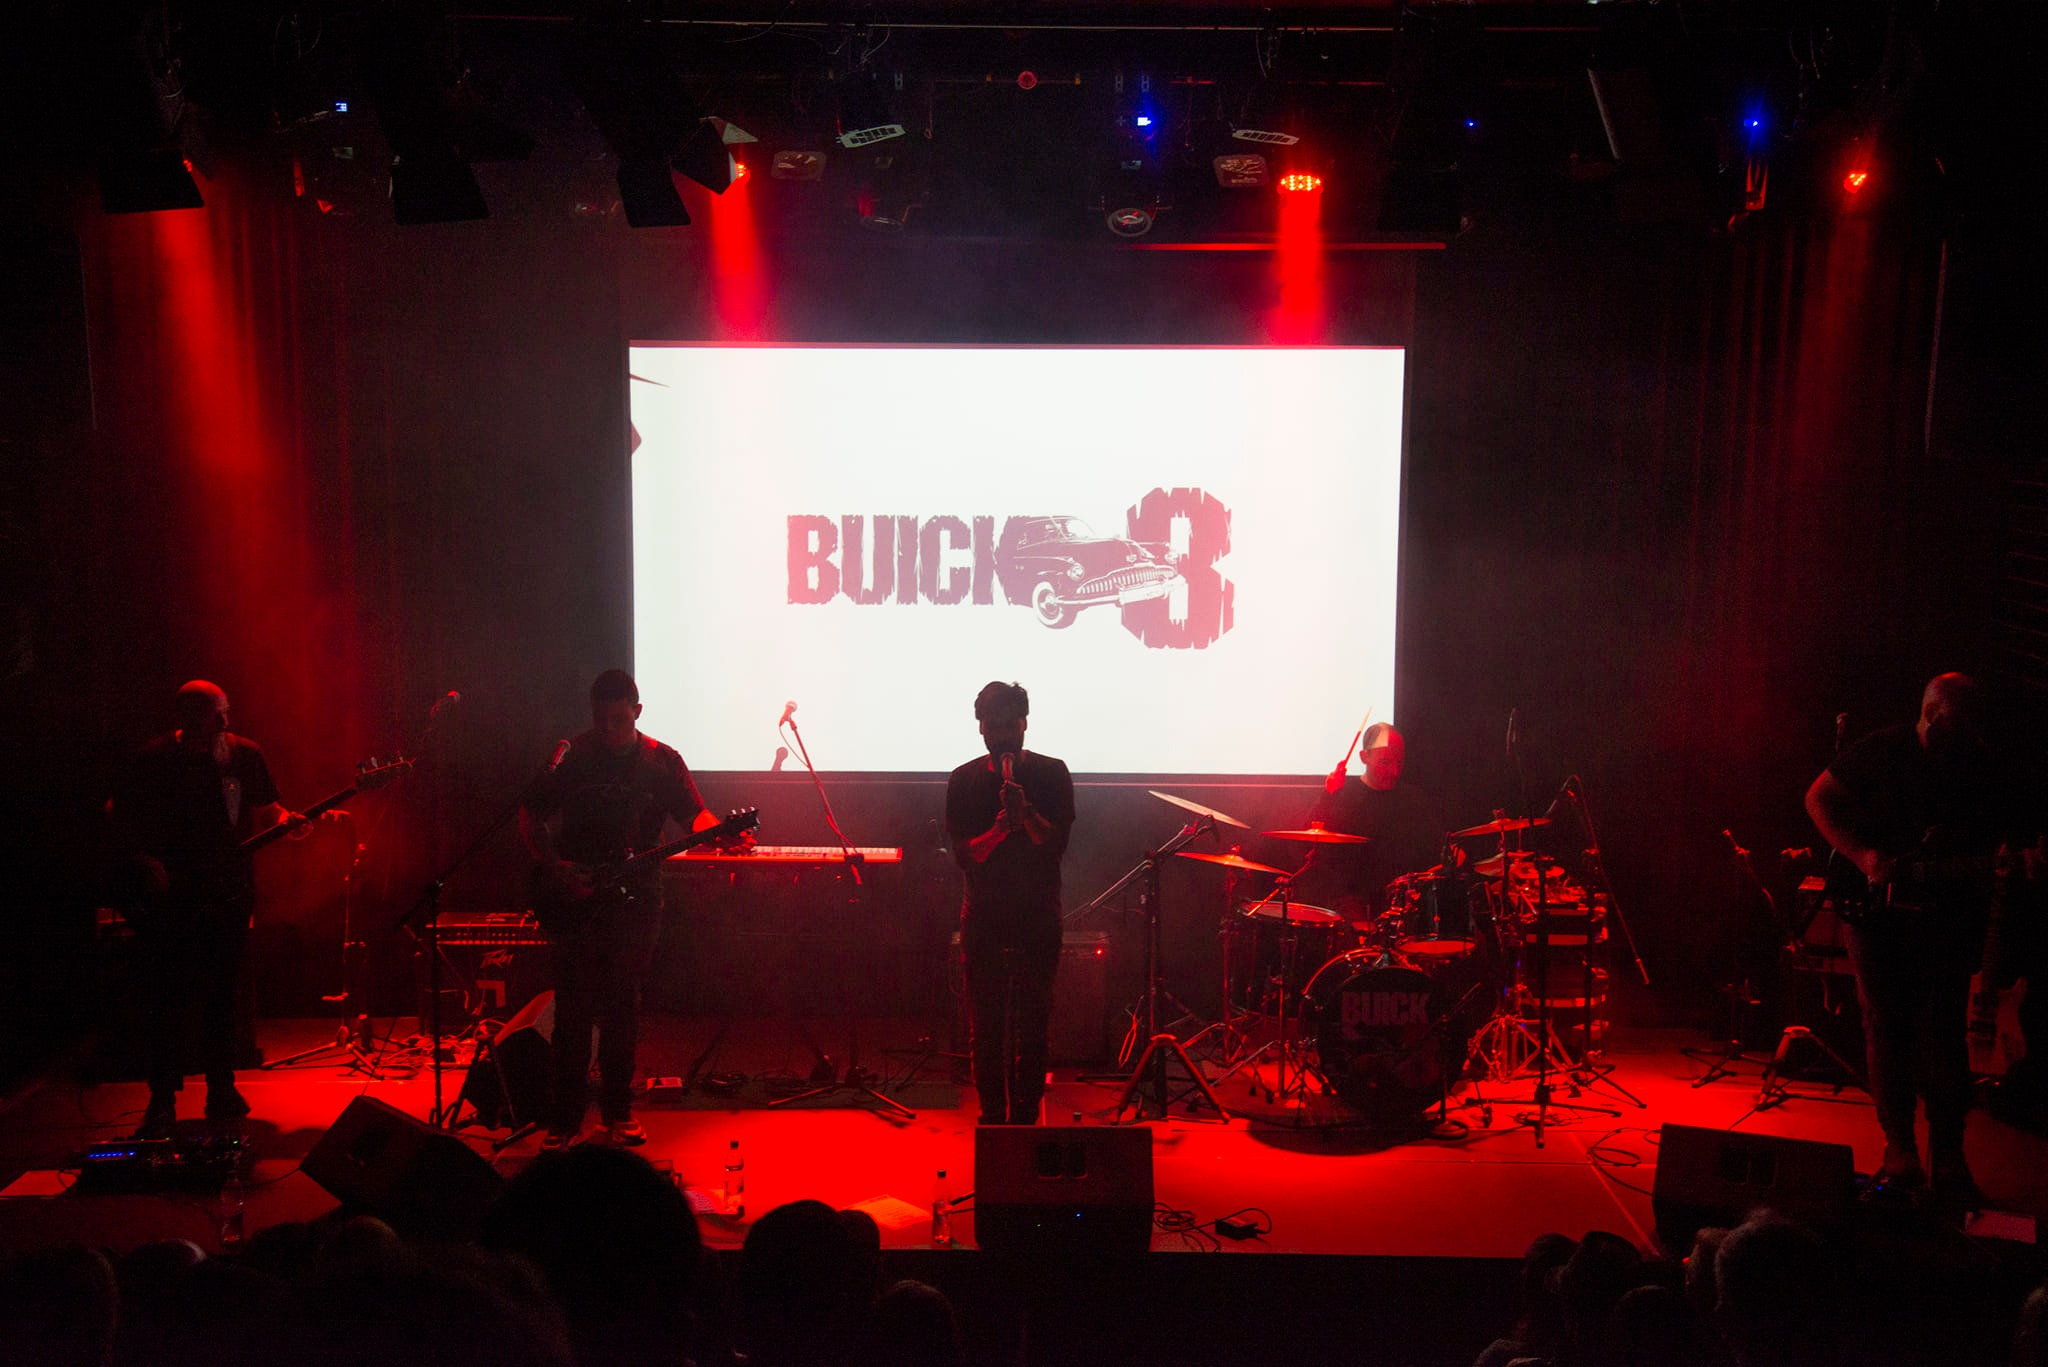
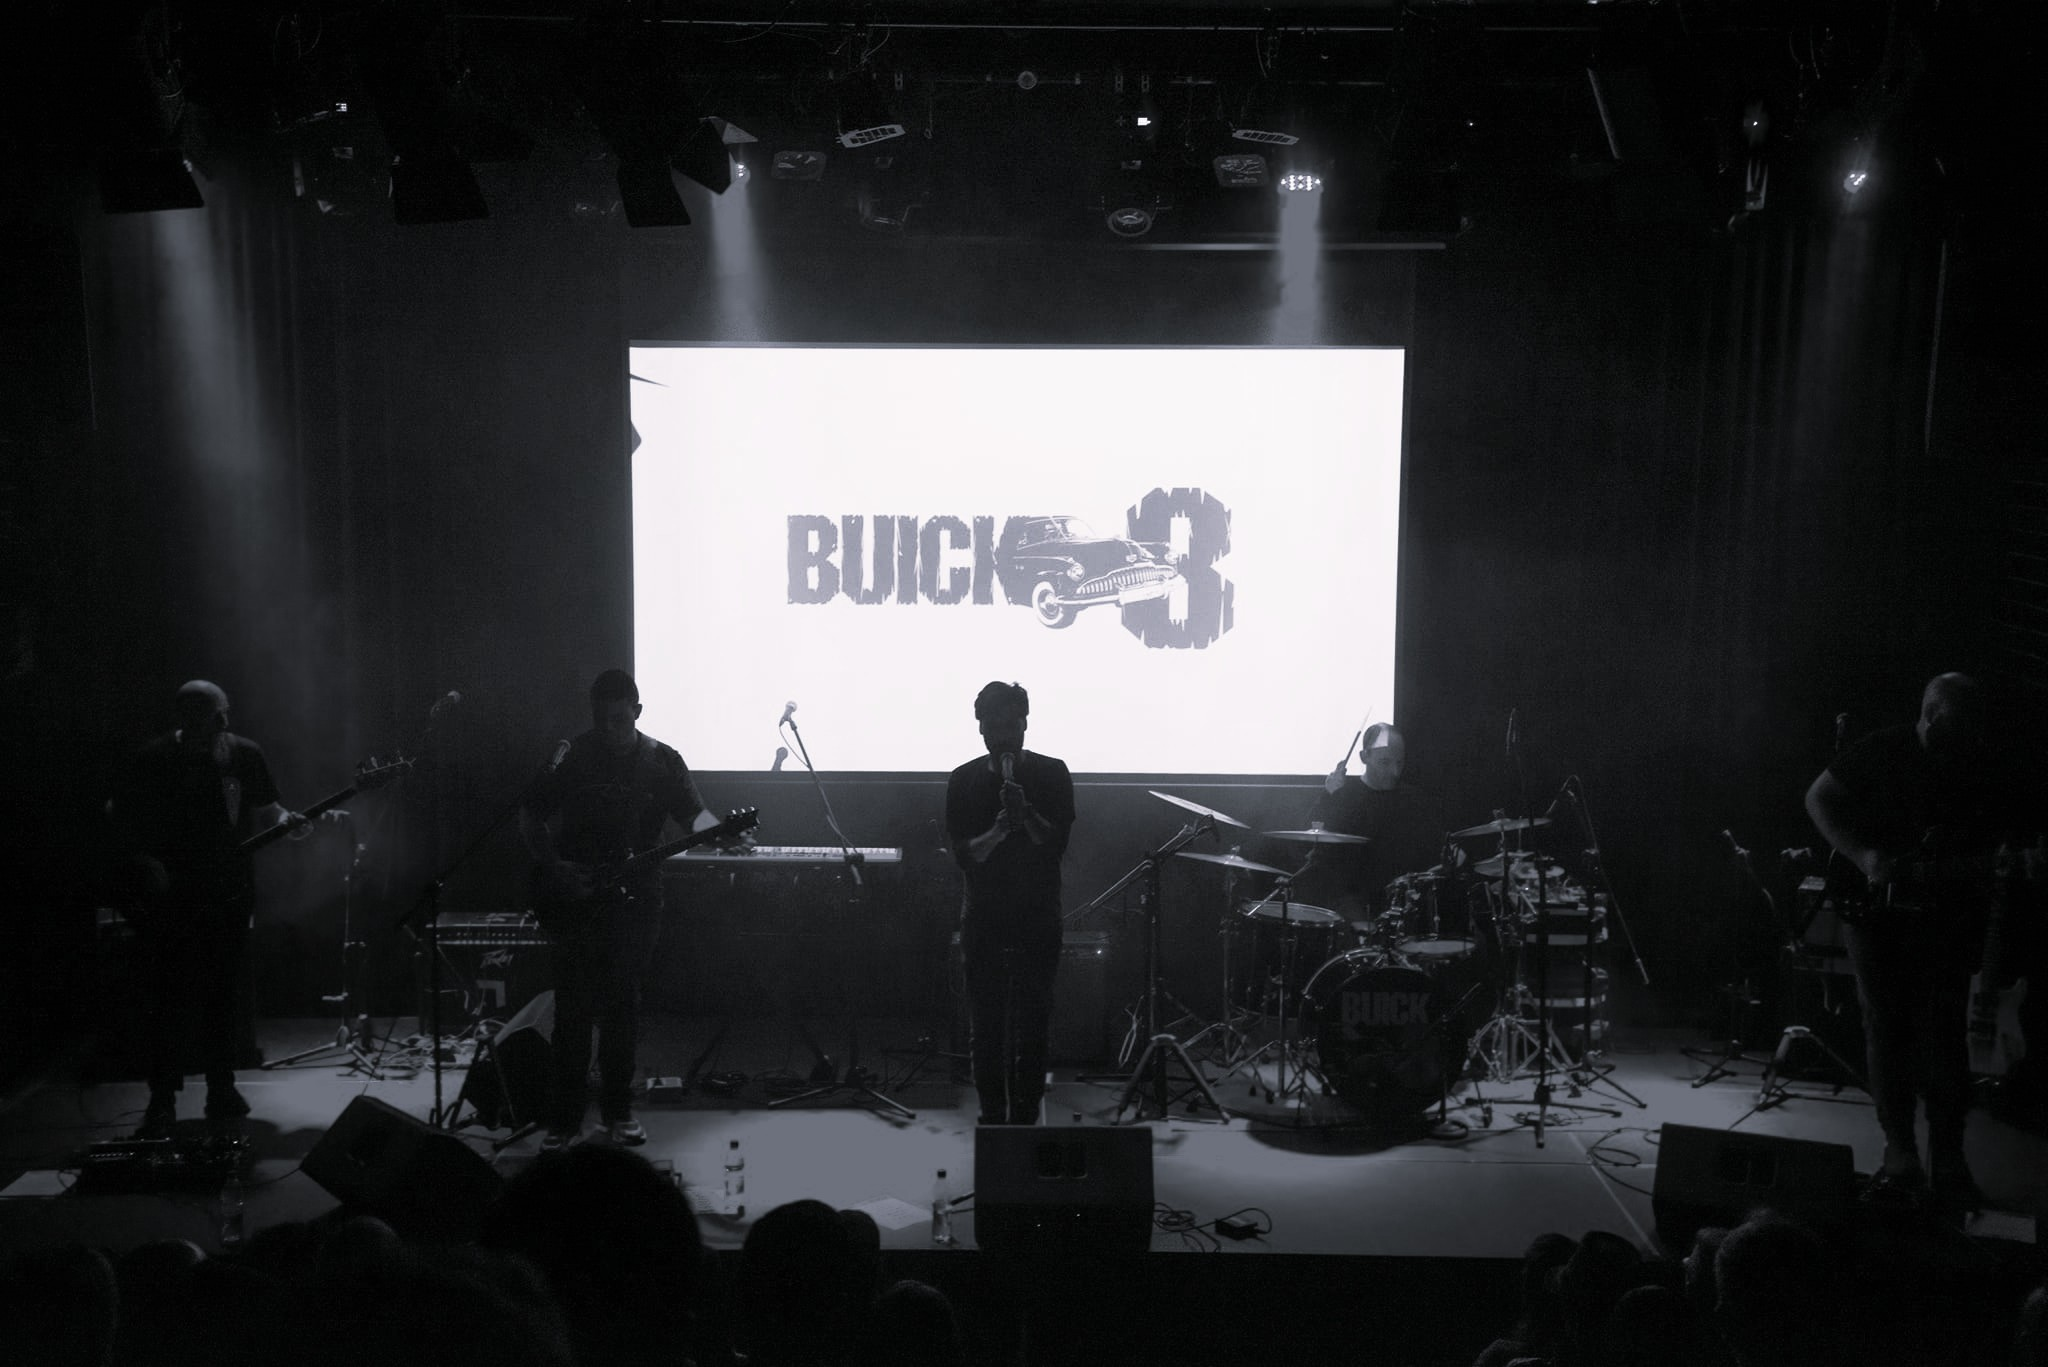
fotos byn

diff --git a/pages/fotosdeshows.html b/pages/fotosdeshows.html
@@ -19,16 +19,16 @@
                 <ul class="navbar-nav">
                     <a class="navbar-brand" href="../index.html"><img src="../img/logo.png" alt="logo buick 8"></a>
                     <li class="nav-item">
-                        <a class="nav-link" href="integrantes.html">Integrantes</a>
+                        <a class="nav-link" href="integrantes.html">INTEGRANTES</a>
                     </li>
                     <li class="nav-item">
-                        <a class="nav-link" href="canciones.html">Música</a>
+                        <a class="nav-link" href="canciones.html">MÚSICA</a>
                     </li>
                     <li class="nav-item">
-                        <a class="nav-link" href="fotosdeshows.html" aria-disabled="true">Fotos</a>
+                        <a class="nav-link" href="fotosdeshows.html" aria-disabled="true">FOTOS</a>
                     </li>
                     <li class="nav-item">
-                        <a class="nav-link" href="contacto.html" aria-disabled="true">Redes sociales</a>
+                        <a class="nav-link" href="contacto.html" aria-disabled="true">REDES SOCIALES</a>
                     </li>
                 </ul>
             </div>
@@ -38,7 +38,7 @@
     <!--Etiqueta para sección principal-->
     <main>
         <section>
-            <h1 class="title-color fotos-title-style">FOTOS</h1>
+            <h1 class="title-color fotos-title-style">NUESTRAS FOTOS</h1>
                 <div class="pics-grid">
                     <img src="../galeria/pic4.jpg" alt="banda completa">
                     <img src="../galeria/pic5.jpg" alt="banda completa en blanco y negro desde gradas">

diff --git a/style.css b/style.css
@@ -99,14 +99,21 @@ div ul img:hover{
 }
 
 .integrantes{
-    width: 70%;
+    width: 60%;
+    border-radius: 15px;
+    transition: transform 0.3s ease, box-shadow 0.3s ease;
+}
+
+.integrantes:hover{
+    transform: scale(1.05);
+    box-shadow: 0 0 10px rgba(177, 21, 21, 0.736);
 }
 
 .title-cada{
     color: rgba(177, 21, 21, 0.736);
     font-weight: bold;
     font-size: 18px;
-    margin-top: 10px;
+    margin-top: 20px;
 }
 
 .grid-integrantes p{
@@ -140,7 +147,7 @@ div ul img:hover{
 
 .bg-discos:hover {
     transform: scale(1.05);
-    box-shadow: 0 0px 20px rgba(177, 21, 21, 0.736);
+    box-shadow: 0 0 10px rgba(177, 21, 21, 0.736);
 }
 
 .style-songs{
@@ -175,10 +182,11 @@ div ul img:hover{
 /* fotos de shows */
 
 .fotos-title-style{
+    font-size: 36px;
     color: rgba(181, 178, 178, 0.849);
     font-weight: bold;
-    margin: 30px;
     text-align: center;
+    margin: 50px 0 50px 0;
 }
 
 h1.fotos-title-style{
@@ -186,8 +194,15 @@ h1.fotos-title-style{
 }
 
 .pics-grid img{
-    width: 100vh;
+    width: 100%;
     height: 70vh;
+    border-radius: 15px;
+    transition: transform 0.3s ease, box-shadow 0.3s ease;
+}
+
+.pics-grid img:hover{
+    transform: scale(1.05);
+    box-shadow: 0 0px 10px rgba(177, 21, 21, 0.736);
 }
 
 .pics-grid{
@@ -195,6 +210,7 @@ h1.fotos-title-style{
     grid-template-columns: repeat(2, 1fr);
     row-gap: 5px;
     justify-items: center;
+    transition: transform 0.3s ease, box-shadow 0.3s ease;
 }
 
 /* contacto */
@@ -220,6 +236,7 @@ h1.fotos-title-style{
 .flex-redes ul img:hover{
     border: 4px solid rgba(177, 21, 21, 0.736);
     border-radius: 100%;
+    transform: scale(1.3);
 }
 
 .redes-bg{

diff --git a/pages/canciones.html b/pages/canciones.html
@@ -19,16 +19,16 @@
                 <ul class="navbar-nav">
                     <a class="navbar-brand" href="../index.html"><img src="../img/logo.png" alt="logo buick 8"></a>
                     <li class="nav-item">
-                        <a class="nav-link" href="integrantes.html">Integrantes</a>
+                        <a class="nav-link" href="integrantes.html">INTEGRANTES</a>
                     </li>
                     <li class="nav-item">
-                        <a class="nav-link" href="canciones.html">Música</a>
+                        <a class="nav-link" href="canciones.html">MÚSICA</a>
                     </li>
                     <li class="nav-item">
-                        <a class="nav-link" href="fotosdeshows.html" aria-disabled="true">Fotos</a>
+                        <a class="nav-link" href="fotosdeshows.html" aria-disabled="true">FOTOS</a>
                     </li>
                     <li class="nav-item">
-                        <a class="nav-link" href="contacto.html" aria-disabled="true">Redes sociales</a>
+                        <a class="nav-link" href="contacto.html" aria-disabled="true">REDES SOCIALES</a>
                     </li>
                 </ul>
             </div>
@@ -37,6 +37,9 @@
     </header>
     <!--Etiqueta para sección principal-->
     <main>
+        <div>
+            <p class="title-integrantes">NUESTRA MÚSICA</p>
+        </div>
         <section class="cd-grid">
             <div class="bg-discos text-center">
                 <h1 class="style-songs">Versiones en vivo</h1>

diff --git a/index.html b/index.html
@@ -19,16 +19,16 @@
                 <ul class="navbar-nav">
                     <a class="navbar-brand" href="index.html"><img src="img/logo.png" alt="logo buick 8"></a>
                     <li class="nav-item">
-                        <a class="nav-link" href="./pages/integrantes.html">Integrantes</a>
+                        <a class="nav-link" href="./pages/integrantes.html">INTEGRANTES</a>
                     </li>
                     <li class="nav-item">
-                        <a class="nav-link" href="./pages/canciones.html">Música</a>
+                        <a class="nav-link" href="./pages/canciones.html">MÚSICA</a>
                     </li>
                     <li class="nav-item">
-                        <a class="nav-link" href="./pages/fotosdeshows.html" aria-disabled="true">Fotos</a>
+                        <a class="nav-link" href="./pages/fotosdeshows.html" aria-disabled="true">FOTOS</a>
                     </li>
                     <li class="nav-item">
-                        <a class="nav-link" href="./pages/contacto.html" aria-disabled="true">Redes sociales</a>
+                        <a class="nav-link" href="./pages/contacto.html" aria-disabled="true">REDES SOCIALES</a>
                     </li>
                 </ul>
             </div>

diff --git a/pages/contacto.html b/pages/contacto.html
@@ -19,16 +19,16 @@
                 <ul class="navbar-nav">
                     <a class="navbar-brand" href="../index.html"><img src="../img/logo.png" alt="logo buick 8"></a>
                     <li class="nav-item">
-                        <a class="nav-link" href="integrantes.html">Integrantes</a>
+                        <a class="nav-link" href="integrantes.html">INTEGRANTES</a>
                     </li>
                     <li class="nav-item">
-                        <a class="nav-link" href="canciones.html">Música</a>
+                        <a class="nav-link" href="canciones.html">MÚSICA</a>
                     </li>
                     <li class="nav-item">
-                        <a class="nav-link" href="fotosdeshows.html" aria-disabled="true">Fotos</a>
+                        <a class="nav-link" href="fotosdeshows.html" aria-disabled="true">FOTOS</a>
                     </li>
                     <li class="nav-item">
-                        <a class="nav-link" href="contacto.html" aria-disabled="true">Redes sociales</a>
+                        <a class="nav-link" href="contacto.html" aria-disabled="true">REDES SOCIALES</a>
                     </li>
                 </ul>
             </div>

diff --git a/pages/integrantes.html b/pages/integrantes.html
@@ -19,16 +19,16 @@
                 <ul class="navbar-nav">
                     <a class="navbar-brand" href="../index.html"><img src="../img/logo.png" alt="logo buick 8"></a>
                     <li class="nav-item">
-                        <a class="nav-link" href="integrantes.html">Integrantes</a>
+                        <a class="nav-link" href="integrantes.html">INTEGRANTES</a>
                     </li>
                     <li class="nav-item">
-                        <a class="nav-link" href="canciones.html">Música</a>
+                        <a class="nav-link" href="canciones.html">MÚSICA</a>
                     </li>
                     <li class="nav-item">
-                        <a class="nav-link" href="fotosdeshows.html" aria-disabled="true">Fotos</a>
+                        <a class="nav-link" href="fotosdeshows.html" aria-disabled="true">FOTOS</a>
                     </li>
                     <li class="nav-item">
-                        <a class="nav-link" href="contacto.html" aria-disabled="true">Redes sociales</a>
+                        <a class="nav-link" href="contacto.html" aria-disabled="true">REDES SOCIALES</a>
                     </li>
                 </ul>
             </div>
